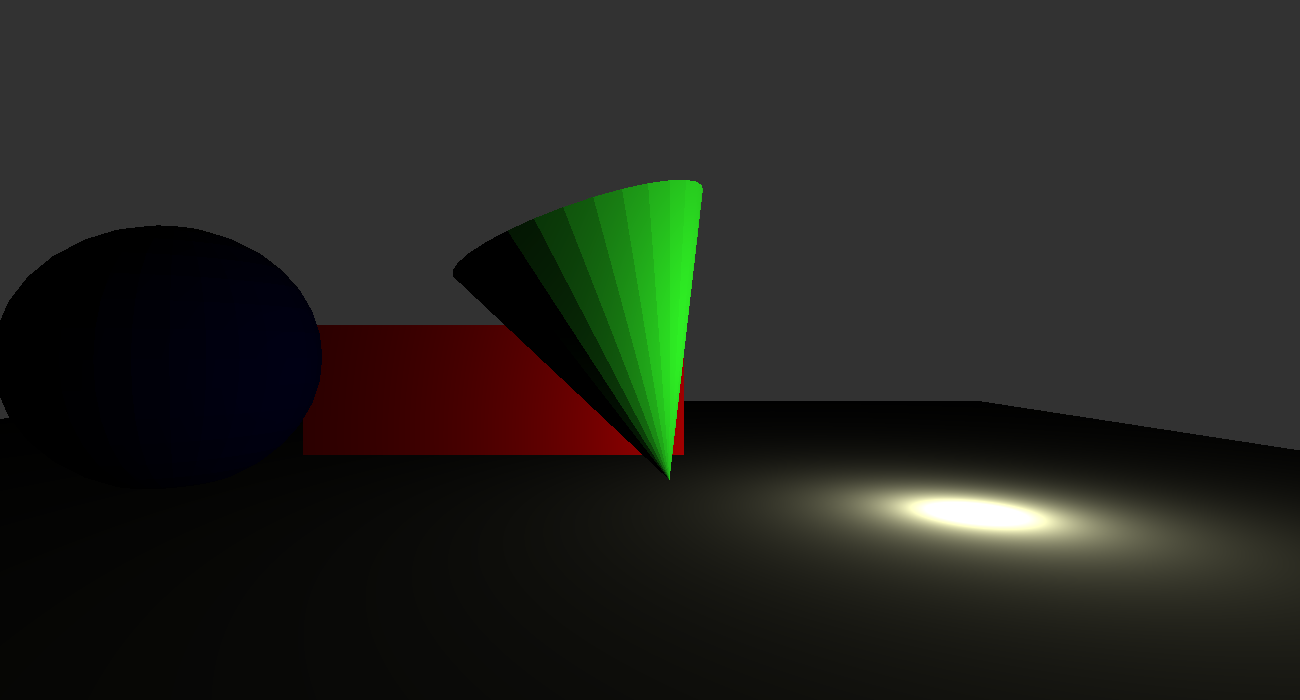
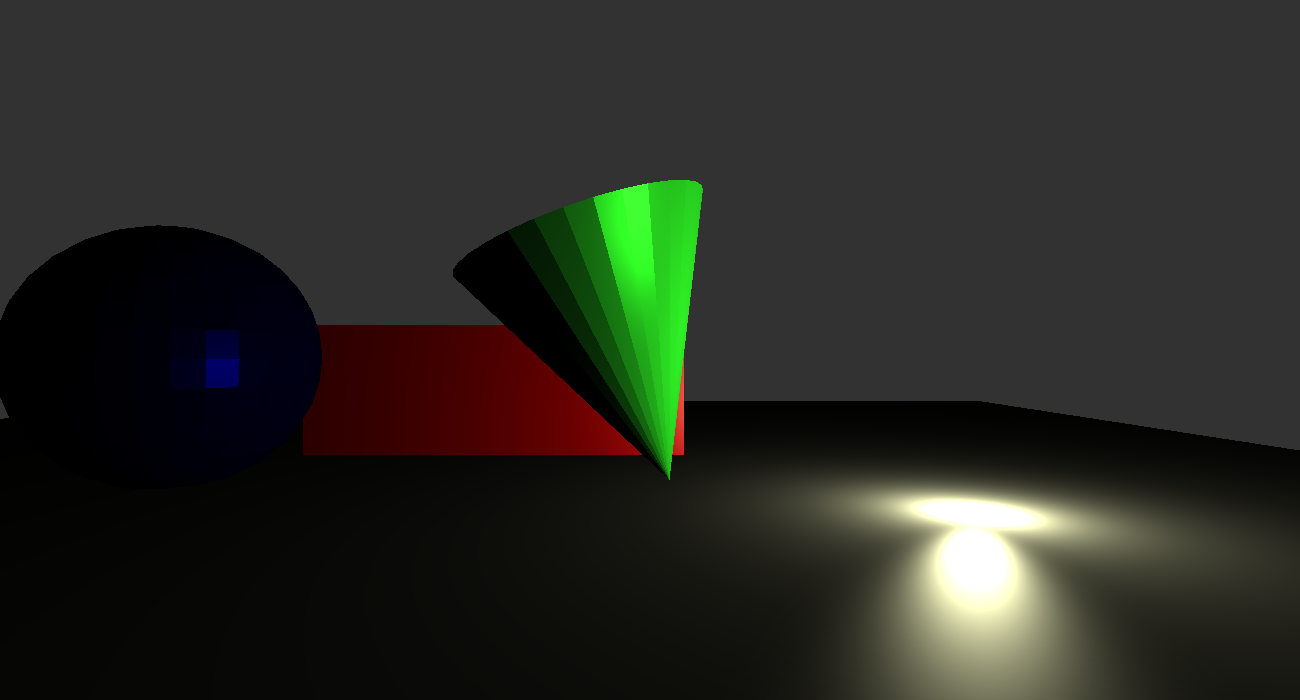
Changed some render settings

diff --git a/src/me/alejandro/raytracer/engine/Render.java b/src/me/alejandro/raytracer/engine/Render.java
@@ -25,7 +25,7 @@ public class Render {
 	private final static boolean REFLECTIONS = false; //issue: wont reflect a component color if there is no direct light source for the color.
 	private final static int REFLECTION_BOUNCES = 1;
 	
-	private final static boolean PHONG_SPECULARITY = false;
+	private final static boolean PHONG_SPECULARITY = true;
 	
 	//private final static boolean DEPTH_OF_FIELD = false;
 	//private final static int DEPTH_OF_FIELD_SAMPLES = 4;
